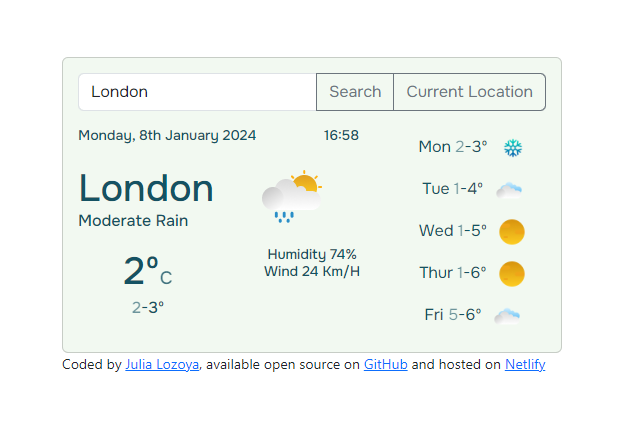
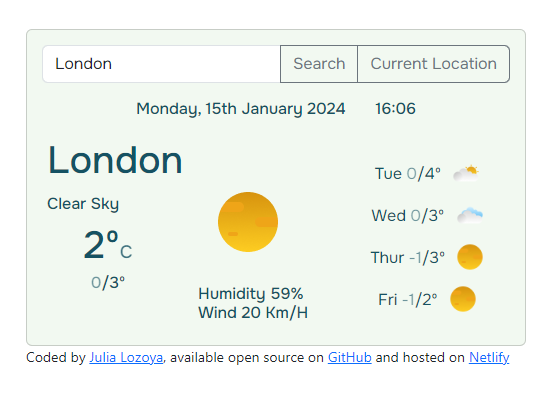
updated the weather app image and some typos

diff --git a/projects.html b/projects.html
@@ -175,7 +175,7 @@
               alt="React Weather App"
               class="img-fluid"
             />
-            <h5 class="text-center mt-3">Weather app (React)</h5>
+            <h5 class="text-center mt-3">Weather App (React)</h5>
             <p class="text-center text-muted">
               The site offers the current weather details and a 5 days forecast
               for the location entered by the user.
